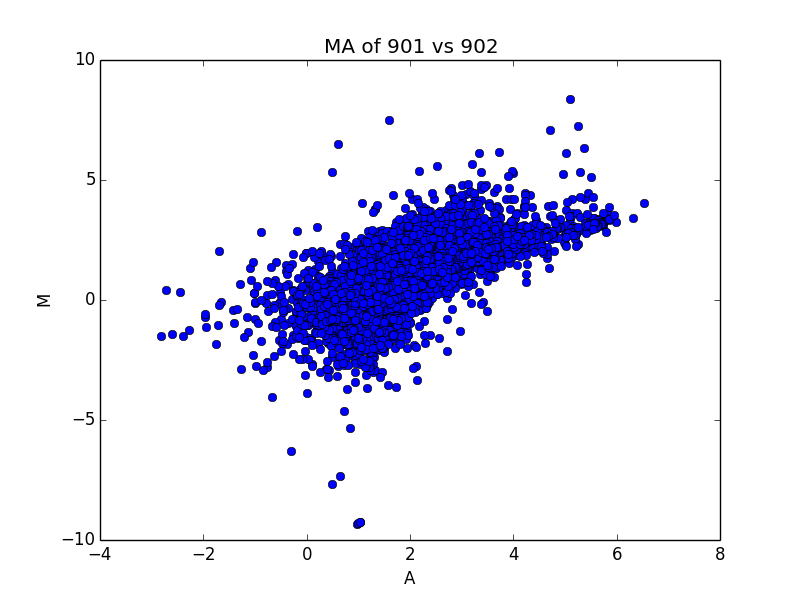
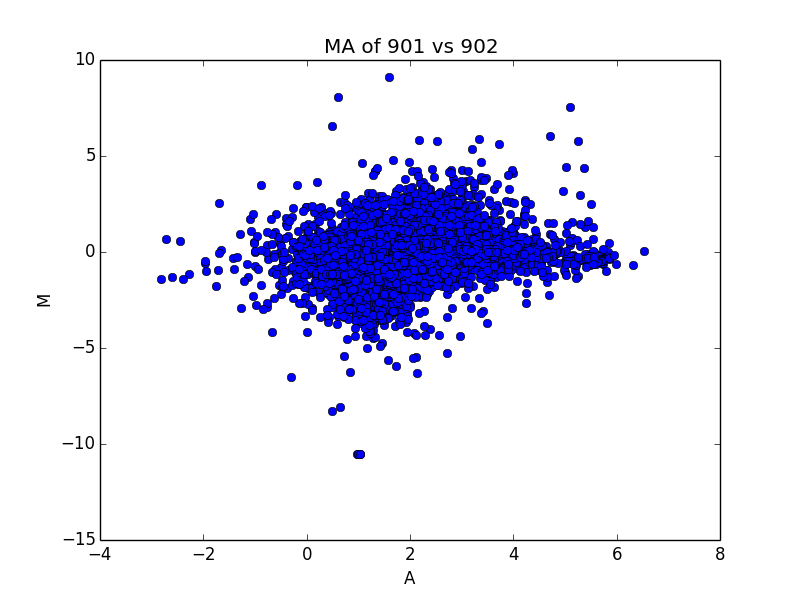
actually log2

diff --git a/day3/lunch/lunch4.py b/day3/lunch/lunch4.py
@@ -26,7 +26,7 @@ for line in rep:
     Data[1].append(line)
 
 for number in range(0, len(Data[1])):
-    Data[2].append((np.log2(Data[1][number]) - np.log(Data[0][number])))
+    Data[2].append((np.log2(Data[1][number]) - np.log2(Data[0][number])))
     Data[3].append(((np.log2((Data[1][number]) + np.log2(Data[0][number])))/2))
     
 M = Data[2]
